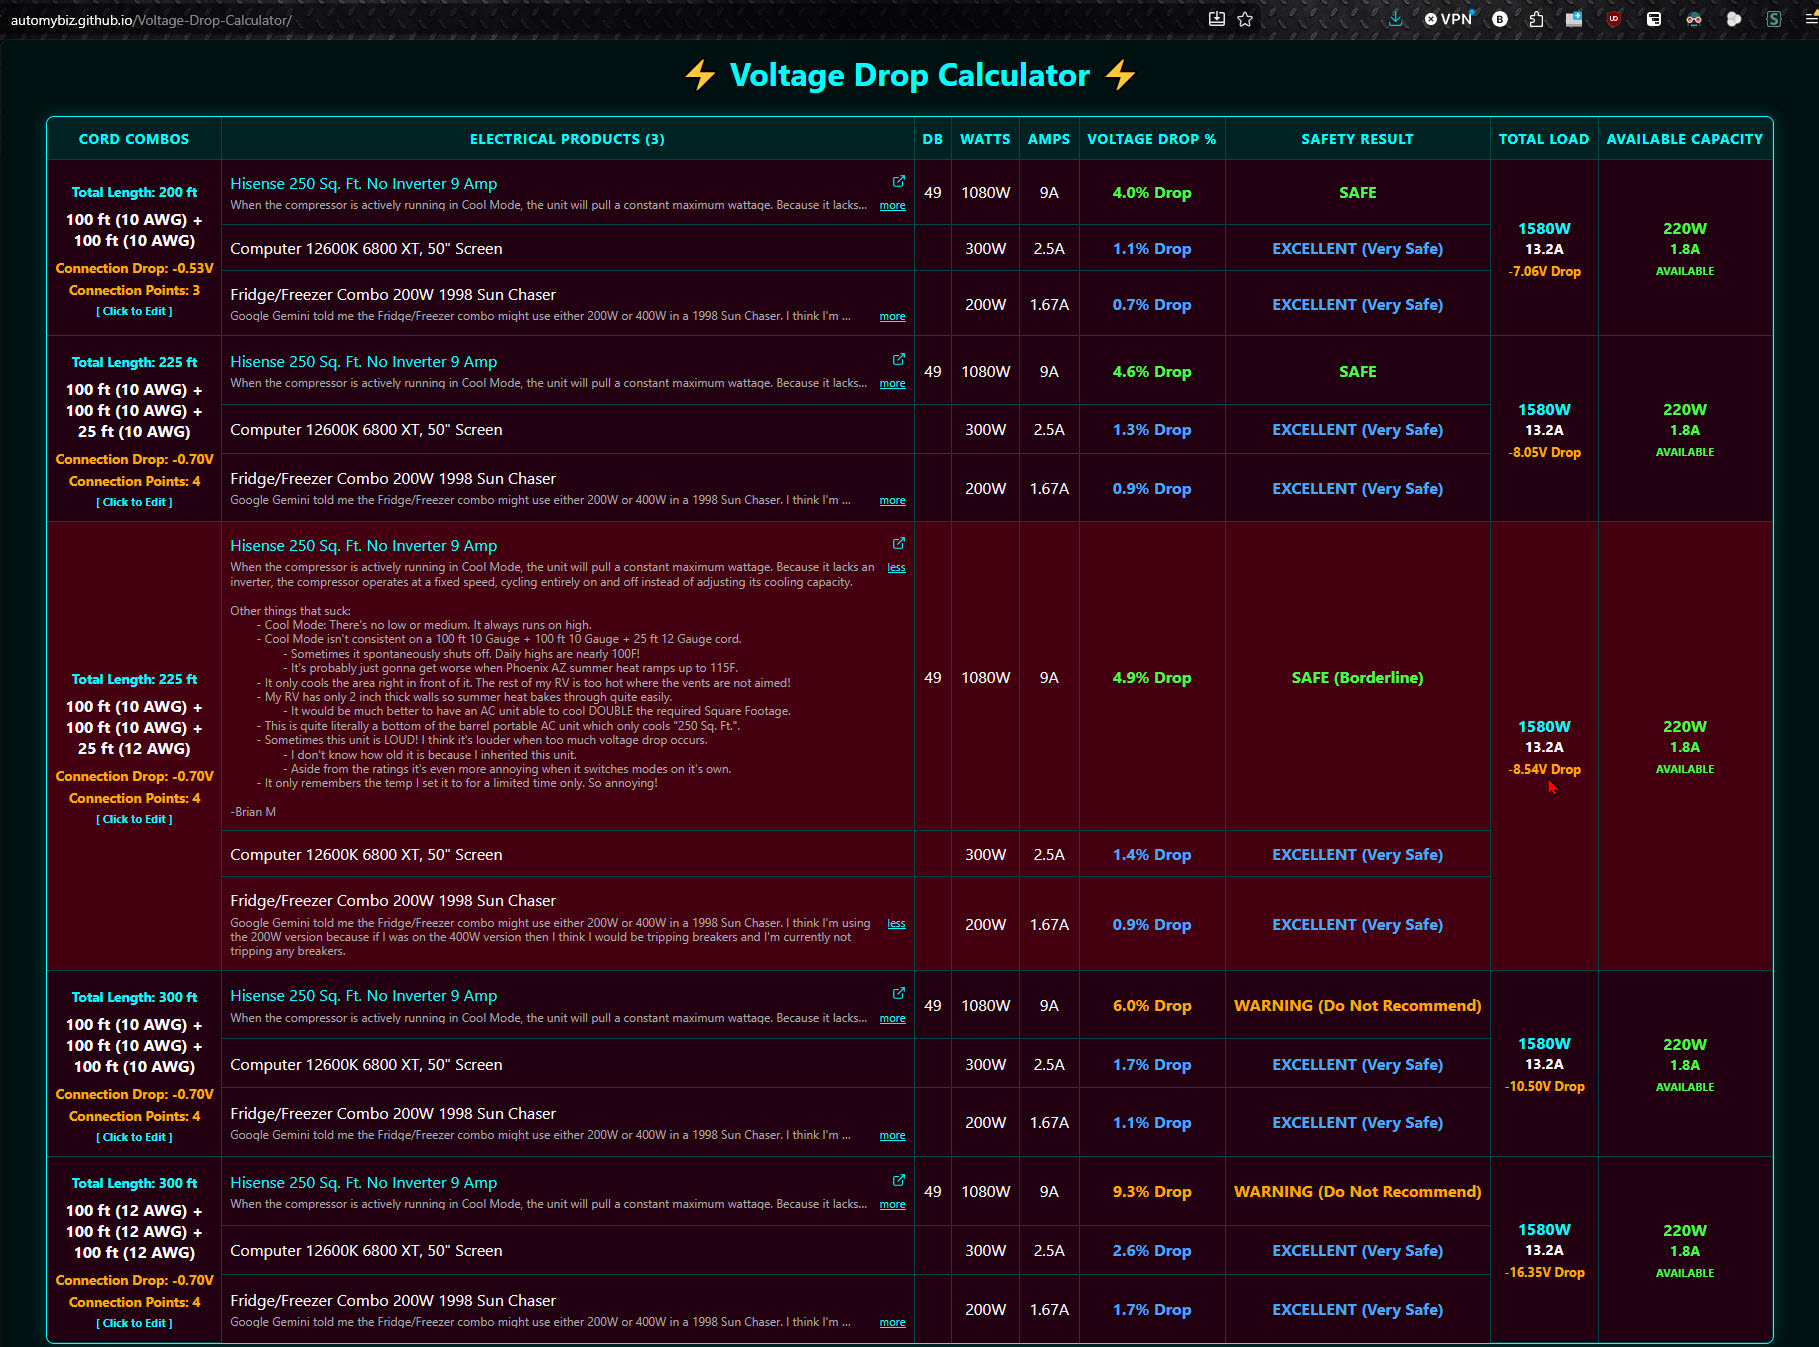
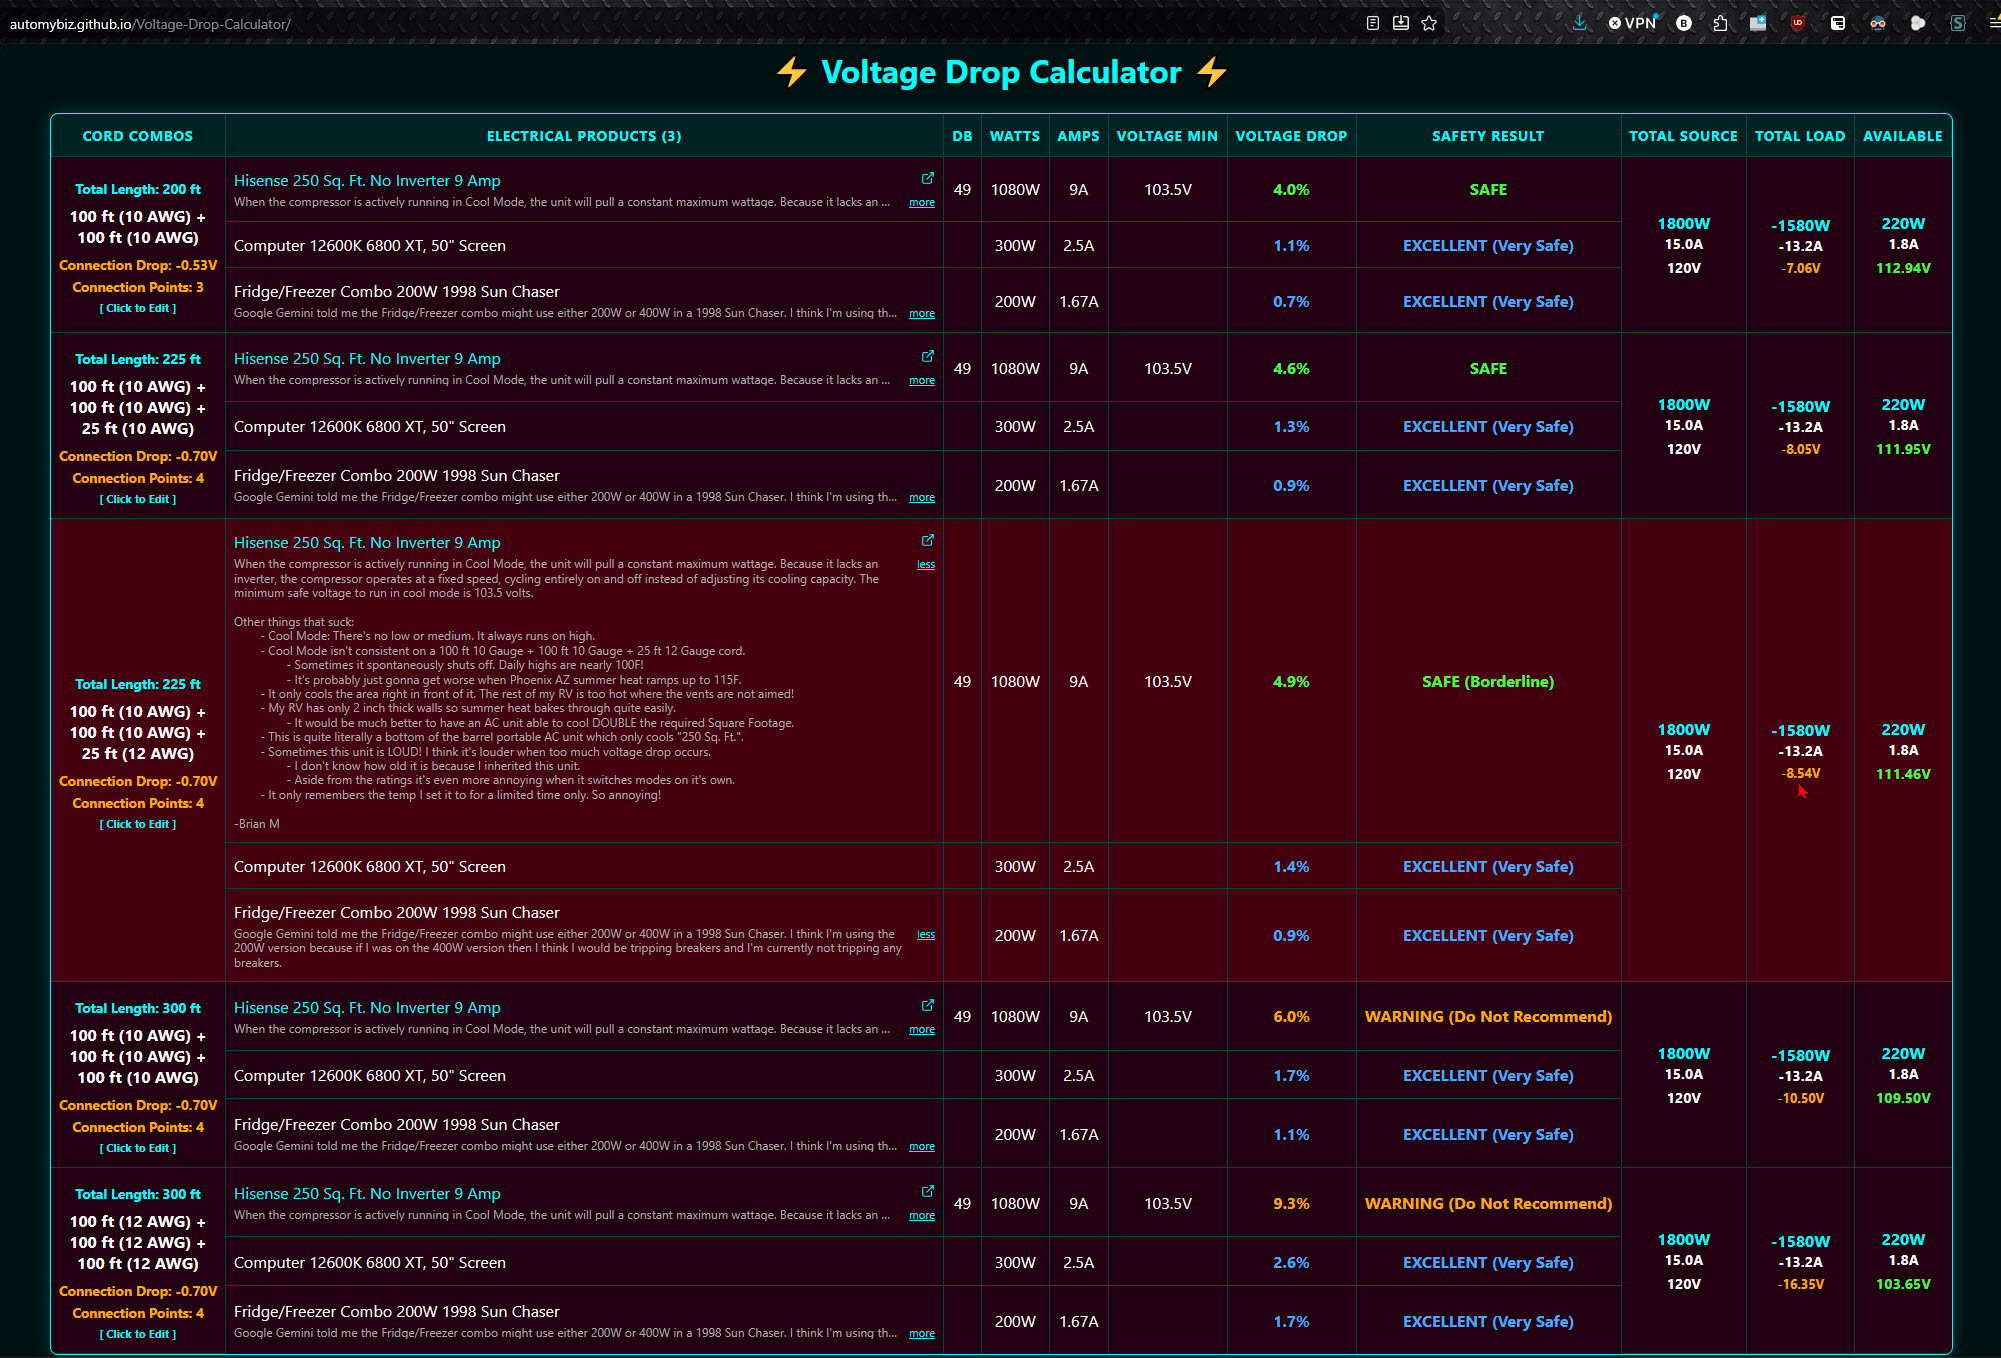
feat: replace large find button with inline search, add cord notes, and fix voltage threshold warning
- Removed the large "Find Voltage Minimum" button next to the Product Name field; expanded the input to span all 4 columns.
- Added inline, compact "Find" buttons next to the "DB (Decibels)" and "Voltage Min" labels in the product modal.
- Configured dynamic disabled states and greyscaling for the new "Find" buttons when the "Product Name" field is empty.
- Added a "Notes" textarea to the Cord Combination modal with local storage persistence.
- Added an SVG Pencil icon inside the Cord Combo cell on the main results table.
  - Implemented a custom CSS tooltip displaying cord notes on hover, utilizing CSS root variables (`--tooltip-bg-color`, `--tooltip-text-color`, and `--tooltip-border-color`).
  - Styled the tooltip with `max-width: 420px` and `width: max-content` to prevent premature line wrapping while ensuring it does not overlap the `DB` column.
  - Configured the Pencil icon to turn greyscale (`#777`) with a "No notes available" tooltip when the cord combo has no notes.
- Updated the "Voltage Min" cell highlighting logic to evaluate the product's minimum voltage against the actual available under-load voltage of the cord combination.

diff --git a/index.html b/index.html
@@ -148,7 +148,7 @@ The default Visible Midea Duo AC unit was chosen to start the calculator with be
             <div class="modal-form-grid">
                 <div class="form-group full-width">
                     <label>Product Name</label>
-                    <input type="text" id="prod-name" placeholder="e.g. Midea Duo 14k">
+                    <input type="text" id="prod-name" placeholder="e.g. Midea Duo 14k" oninput="updateFindButtonsState()">
                 </div>
                 <div class="form-group">
                     <label>Watts (W)</label>
@@ -159,12 +159,18 @@ The default Visible Midea Duo AC unit was chosen to start the calculator with be
                     <input type="number" id="prod-amps" step="0.1" oninput="syncAmpsWatts('amps')">
                 </div>
                 <div class="form-group">
-                    <label>Voltage Min</label>
-                    <input type="number" id="prod-min-voltage" step="0.1" placeholder="e.g. 100">
+                    <div style="display: flex; justify-content: space-between; align-items: center;">
+                        <label>DB (Decibels)</label>
+                        <button class="btn" id="btn-find-db" style="padding: 2px 6px; font-size: 0.7em;" onclick="findProductDB()" title="Find Product Decibles">Find</button>
+                    </div>
+                    <input type="number" id="prod-db" step="1" placeholder="e.g. 52">
                 </div>
                 <div class="form-group">
-                    <label>DB (Decibels)</label>
-                    <input type="number" id="prod-db" step="1" placeholder="e.g. 52">
+                    <div style="display: flex; justify-content: space-between; align-items: center;">
+                        <label>Voltage Min</label>
+                        <button class="btn" id="btn-find-voltage" style="padding: 2px 6px; font-size: 0.7em;" onclick="findMinVoltage()" title="Find Minimum Product Voltage">Find</button>
+                    </div>
+                    <input type="number" id="prod-min-voltage" step="0.1" placeholder="e.g. 100">
                 </div>
                 <div class="form-group full-width">
                     <label>Product URL</label>
@@ -223,6 +229,12 @@ The default Visible Midea Duo AC unit was chosen to start the calculator with be
                         <!-- Segments added here -->
                     </div>
                     <button class="btn" style="margin-top:10px;" onclick="addSegment()">+ Add Segment</button>
+                </div>
+                <div class="form-group full-width">
+                    <div style="display: flex; justify-content: space-between; align-items: center;">
+                        <label>Notes</label>
+                    </div>
+                    <textarea id="cord-notes" class="auto-expand" placeholder="Enter cord notes..." oninput="autoResize(this)"></textarea>
                 </div>
             </div>
             <div class="modal-footer">
@@ -511,6 +523,18 @@ The default Visible Midea Duo AC unit was chosen to start the calculator with be
             }
         }
 
+        function updateFindButtonsState() {
+            const nameInput = document.getElementById('prod-name');
+            const btnDb = document.getElementById('btn-find-db');
+            const btnVolt = document.getElementById('btn-find-voltage');
+            
+            if (nameInput && btnDb && btnVolt) {
+                const isDisabled = nameInput.value.trim() === '';
+                btnDb.disabled = isDisabled;
+                btnVolt.disabled = isDisabled;
+            }
+        }
+
         function openProductModal(id = null) {
             const modal = document.getElementById('product-modal');
             const title = document.getElementById('product-modal-title');
@@ -542,6 +566,7 @@ The default Visible Midea Duo AC unit was chosen to start the calculator with be
             }
             modal.style.display = 'block';
             autoResize(notesField);
+            updateFindButtonsState();
         }
 
         function openCordModal(id = null) {
@@ -549,23 +574,27 @@ The default Visible Midea Duo AC unit was chosen to start the calculator with be
             const title = document.getElementById('cord-modal-title');
             const deleteBtn = document.getElementById('btn-delete-cord');
             const list = document.getElementById('segment-list');
+            const notesField = document.getElementById('cord-notes');
             list.innerHTML = '';
 
             if (id) {
                 const c = cordCombos.find(x => x.id === id);
                 document.getElementById('cord-name').value = c.name;
+                notesField.value = c.notes || '';
                 c.segments.forEach(seg => addSegment(seg.length, seg.awg));
                 title.innerText = 'Edit Cord Combo';
                 deleteBtn.style.display = 'block';
                 editingId = id;
             } else {
                 document.getElementById('cord-name').value = '';
+                notesField.value = '';
                 addSegment(50, 12);
                 title.innerText = 'Add Cord Combination';
                 deleteBtn.style.display = 'none';
             }
             document.getElementById('btn-revert-name').disabled = true;
             modal.style.display = 'block';
+            autoResize(notesField);
         }
 
         function generateCordName() {
@@ -679,6 +708,7 @@ The default Visible Midea Duo AC unit was chosen to start the calculator with be
 
         function saveCord() {
             const name = document.getElementById('cord-name').value;
+            const notes = document.getElementById('cord-notes').value;
             const segElements = document.querySelectorAll('.segment-item');
             const segments = [];
             
@@ -693,9 +723,10 @@ The default Visible Midea Duo AC unit was chosen to start the calculator with be
             if (editingId) {
                 const c = cordCombos.find(x => x.id === editingId);
                 c.name = name;
+                c.notes = notes;
                 c.segments = segments;
             } else {
-                cordCombos.push({ id: Date.now(), name, segments, visible: true });
+                cordCombos.push({ id: Date.now(), name, segments, notes, visible: true });
             }
 
             saveToStorage();
@@ -902,6 +933,26 @@ The default Visible Midea Duo AC unit was chosen to start the calculator with be
             }
         }
 
+        function findMinVoltage() {
+            const name = document.getElementById('prod-name').value;
+            if (name) {
+                const query = encodeURIComponent(`${name}. What is the Minimum Required Voltage?`);
+                window.open(`https://www.google.com/search?q=${query}`, "_blank");
+            } else {
+                alert("Please enter a Product Name first.");
+            }
+        }
+
+        function findProductDB() {
+            const name = document.getElementById('prod-name').value;
+            if (name) {
+                const query = encodeURIComponent(`${name}. What are the Decibels?`);
+                window.open(`https://www.google.com/search?q=${query}`, "_blank");
+            } else {
+                alert("Please enter a Product Name first.");
+            }
+        }
+
         function handleImport(event) {
             const file = event.target.files[0];
             if (!file) return;
@@ -1011,22 +1062,26 @@ The default Visible Midea Duo AC unit was chosen to start the calculator with be
                 const groupBody = document.createElement('tbody');
                 groupBody.className = 'results-group';
 
+                const totalCalc = calculateVoltageDrop(totalVisibleAmps, cord.segments);
+                const remainingVoltage = vSource - totalCalc.totalDropV;
+
                 visibleProducts.forEach((prod, index) => {
                     const row = document.createElement('tr');
                     const calc = calculateVoltageDrop(prod.amps, cord.segments);
                     const safety = getSafetyResult(calc.dropPercent);
 
-                    const voltageAtProduct = vSource - calc.totalDropV;
-                    const isVoltageTooLow = prod.minVoltage && voltageAtProduct < prod.minVoltage;
+                    const isVoltageTooLow = prod.minVoltage && remainingVoltage < prod.minVoltage;
 
                     let cordCell = '';
                     let totalSourceCell = '';
                     let totalLoadCell = '';
                     let availableCell = '';
                     if (index === 0) {
-                        const totalCalc = calculateVoltageDrop(totalVisibleAmps, cord.segments);
+                        const pencilColor = cord.notes ? 'var(--highlight)' : '#777';
+                        const tooltipText = cord.notes ? cord.notes.replace(/"/g, '"') : 'No notes available';
+
                         cordCell = `
-                            <td rowspan="${visibleProducts.length}" class="cord-setup-cell" onclick="openCordModal(${cord.id})" style="cursor:pointer; border-right: 1px solid #044;">
+                            <td rowspan="${visibleProducts.length}" class="cord-setup-cell" onclick="openCordModal(${cord.id})" style="cursor:pointer; border-right: 1px solid #044; position: relative; padding-bottom: 20px;">
                                 <span class="total-length">Total Length: ${totalCalc.totalLength} ft</span>
                                 <div style="margin: 8px 0;">${cord.name.replace(/\+/g, '+<br>')}</div>
                                 <div style="margin-top: 8px;">
@@ -1034,6 +1089,10 @@ The default Visible Midea Duo AC unit was chosen to start the calculator with be
                                     <span class="total-length" style="color: var(--safety-warning);">Connection Points: ${totalCalc.numConnections}</span>
                                 </div>
                                 <div style="font-size:0.7em; color:var(--highlight); margin-top:5px;">[ Click to Edit ]</div>
+                                <div class="custom-tooltip" style="position: absolute; bottom: 5px; right: 5px; color: ${pencilColor};" onclick="event.stopPropagation();">
+                                    <svg width="16" height="16" viewBox="0 0 24 24" fill="none" stroke="currentColor" stroke-width="2" stroke-linecap="round" stroke-linejoin="round"><path d="M12 20h9"></path><path d="M16.5 3.5a2.121 2.121 0 0 1 3 3L7 19l-4 1 1-4L16.5 3.5z"></path></svg>
+                                    <span class="custom-tooltip-text">${tooltipText}</span>
+                                </div>
                             </td>
                         `;
                         totalSourceCell = `
@@ -1044,18 +1103,18 @@ The default Visible Midea Duo AC unit was chosen to start the calculator with be
                             </td>
                         `;
                         totalLoadCell = `
-                            <td rowspan="${visibleProducts.length}" style="font-weight:bold; color:var(--highlight); border-right: 1px solid #044;">
+                            <td rowspan="${visibleProducts.length}" style="font-weight:bold; border-right: 1px solid #044;">
                                 <div>-${totalVisibleWatts}W</div>
                                 <div style="font-size:0.9em; color:#fff;">-${totalVisibleAmps.toFixed(1)}A</div>
                                 <div style="font-size:0.8em; color:var(--safety-warning); margin-top:4px;">-${totalCalc.totalDropV}V</div>
                             </td>
                         `;
-                        const remainingVoltage = (vSource - totalCalc.totalDropV).toFixed(2);
+                        const remainingVoltageStr = remainingVoltage.toFixed(2);
                         availableCell = `
                             <td rowspan="${visibleProducts.length}" style="font-weight:bold; border-right: none;">
                                 <div style="color:var(--highlight);">${remainingWatts.toFixed(0)}W</div>
                                 <div style="font-size:0.9em; color:#fff;">${remainingAmps.toFixed(1)}A</div>
-                                <div style="font-size:0.9em; margin-top:4px; color:${isOverloaded ? 'var(--safety-danger)' : 'var(--capacity-ok)'};">${remainingVoltage}V</div>
+                                <div style="font-size:0.9em; margin-top:4px; color:${isOverloaded ? 'var(--safety-danger)' : 'var(--capacity-ok)'};">${remainingVoltageStr}V</div>
                                 ${isOverloaded ? `<div style="font-size:0.7em; margin-top:5px; color:var(--safety-danger);">OVERLOAD</div>` : ''}
                             </td>
                         `;

diff --git a/styles-rules.css b/styles-rules.css
@@ -184,6 +184,15 @@ h1, h2 {
     box-shadow: 0 0 5px var(--highlight);
 }
 
+.btn:disabled {
+    background-color: #333;
+    color: #777;
+    border-color: #444;
+    cursor: not-allowed;
+    box-shadow: none;
+    pointer-events: none;
+}
+
 .btn-add { }
 .btn-edit { }
 .btn-delete { border-color: #f44; }
@@ -397,6 +406,55 @@ textarea.auto-expand {
     color: var(--highlight);
     margin-left: 5px;
     font-size: 0.9em;
+}
+
+/* Custom Tooltip Styles */
+.custom-tooltip {
+    position: relative;
+    display: inline-block;
+    cursor: pointer;
+}
+
+.custom-tooltip .custom-tooltip-text {
+    visibility: hidden;
+    width: max-content;
+    max-width: 420px; /* Expand up to the DB column border but not past it */
+    background-color: var(--tooltip-bg-color, #011);
+    color: var(--tooltip-text-color, #FFF);
+    border: 1px solid var(--tooltip-border-color, #0FF);
+    text-align: left;
+    border-radius: 6px;
+    padding: 8px 12px;
+    position: absolute;
+    z-index: 1000;
+    bottom: 125%; /* Position above the tooltip icon */
+    left: -20px; /* Position to the right, within the table boundaries */
+    margin-bottom: 5px;
+    opacity: 0;
+    transition: opacity 0.3s, visibility 0.3s;
+    font-size: 0.8em;
+    font-weight: normal;
+    white-space: pre-wrap; /* Preserve formatting and wrap */
+    overflow-wrap: break-word;
+    box-shadow: 0 4px 10px rgba(0, 0, 0, 0.5);
+    pointer-events: none; /* Prevent tooltip from blocking mouse events */
+}
+
+/* Arrow/tooltip pointer */
+.custom-tooltip .custom-tooltip-text::after {
+    content: "";
+    position: absolute;
+    top: 100%; /* At the bottom of the tooltip */
+    left: 24px; /* Align arrow with the pencil icon */
+    margin-left: -5px;
+    border-width: 5px;
+    border-style: solid;
+    border-color: var(--tooltip-border-color, #0FF) transparent transparent transparent;
+}
+
+.custom-tooltip:hover .custom-tooltip-text {
+    visibility: visible;
+    opacity: 1;
 }
 
 /* Collapsible Notes */

diff --git a/styles-root.css b/styles-root.css
@@ -33,6 +33,11 @@
     --input-border-color: #0FF;
     --input-placeholder-text-color: #999;
 
+    /* Tool Tip Variables */
+    --tooltip-bg-color: #011;
+    --tooltip-text-color: #FFF;
+    --tooltip-border-color: #0FF;
+
     /* Safety Result Colors */
     --safety-excellent: #4AF;
     --safety-safe: #4F4;
